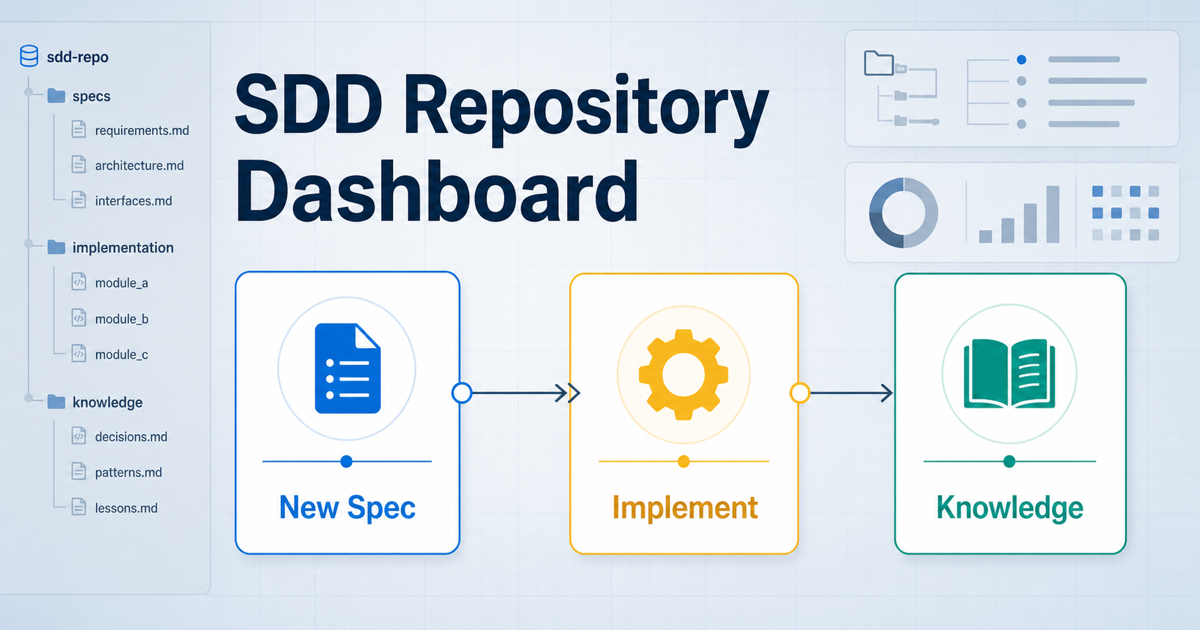
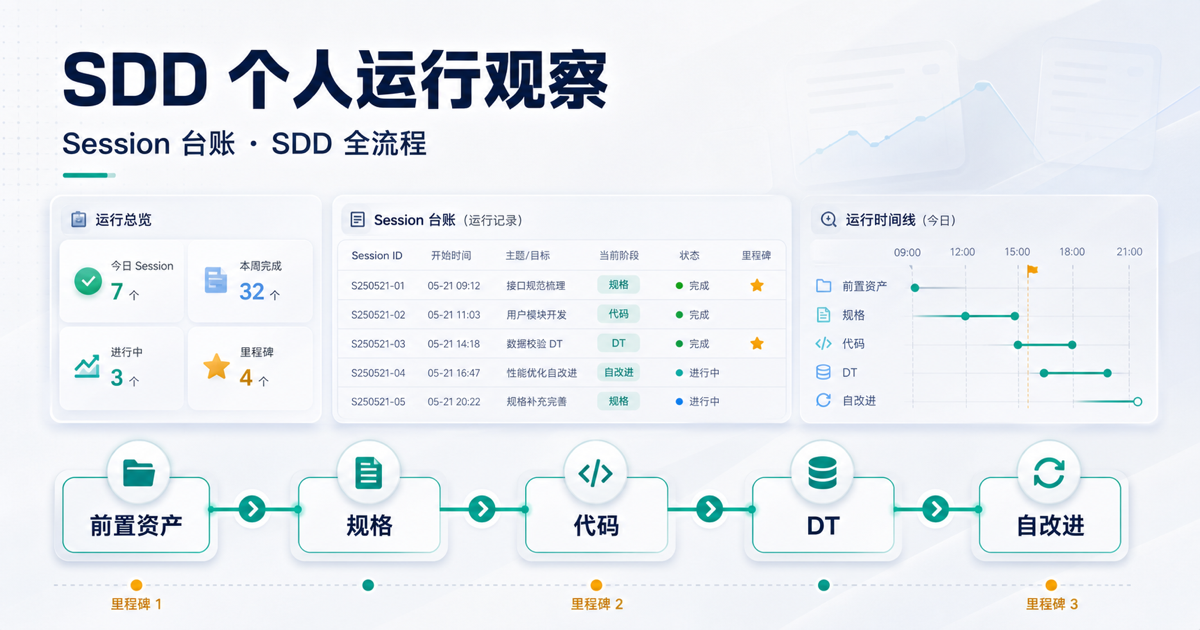
Refresh dashboard metadata and social preview

diff --git a/app/layout.tsx b/app/layout.tsx
@@ -2,16 +2,15 @@ import type { Metadata } from 'next';
 import './globals.css';
 
 export const metadata: Metadata = {
-  title: 'SDD Repository Dashboard',
+  title: 'SDD 个人运行观察',
   description:
-    'Repository-level SDD operations dashboard with separate New Spec and Implement stages.',
+    '个人 Session 使用情况与单次 SDD 全流程看板。',
   metadataBase: new URL(
     'https://sdd-repository-dashboard.zhangyc970514.chatgpt.site',
   ),
   openGraph: {
-    title: 'SDD Repository Dashboard',
-    description:
-      'Repository-level SDD operations dashboard with separate New Spec and Implement stages.',
+    title: 'SDD 个人运行观察',
+    description: '个人 Session 使用情况与单次 SDD 全流程看板。',
     url: 'https://sdd-repository-dashboard.zhangyc970514.chatgpt.site',
     siteName: 'SDD Repository Dashboard',
     images: [
@@ -19,7 +18,7 @@ export const metadata: Metadata = {
         url: '/og.png',
         width: 1200,
         height: 630,
-        alt: 'SDD Repository Dashboard',
+        alt: 'SDD 个人运行观察',
       },
     ],
     locale: 'zh_CN',
@@ -27,9 +26,8 @@ export const metadata: Metadata = {
   },
   twitter: {
     card: 'summary_large_image',
-    title: 'SDD Repository Dashboard',
-    description:
-      'Repository-level SDD operations dashboard with separate New Spec and Implement stages.',
+    title: 'SDD 个人运行观察',
+    description: '个人 Session 使用情况与单次 SDD 全流程看板。',
     images: ['/og.png'],
   },
 };
